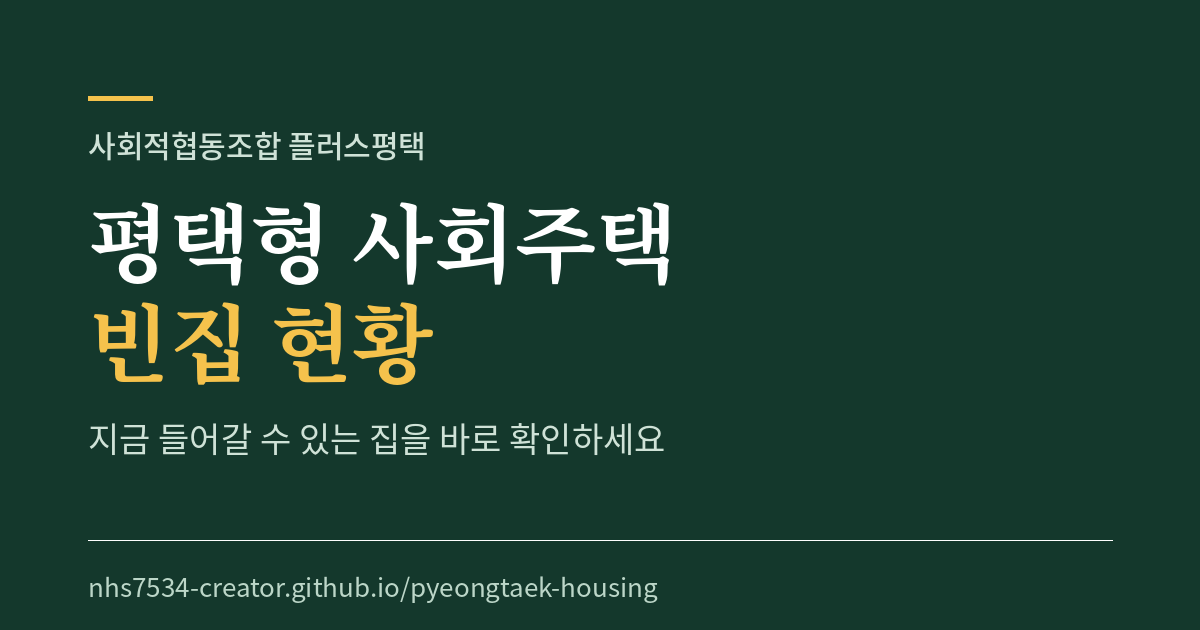
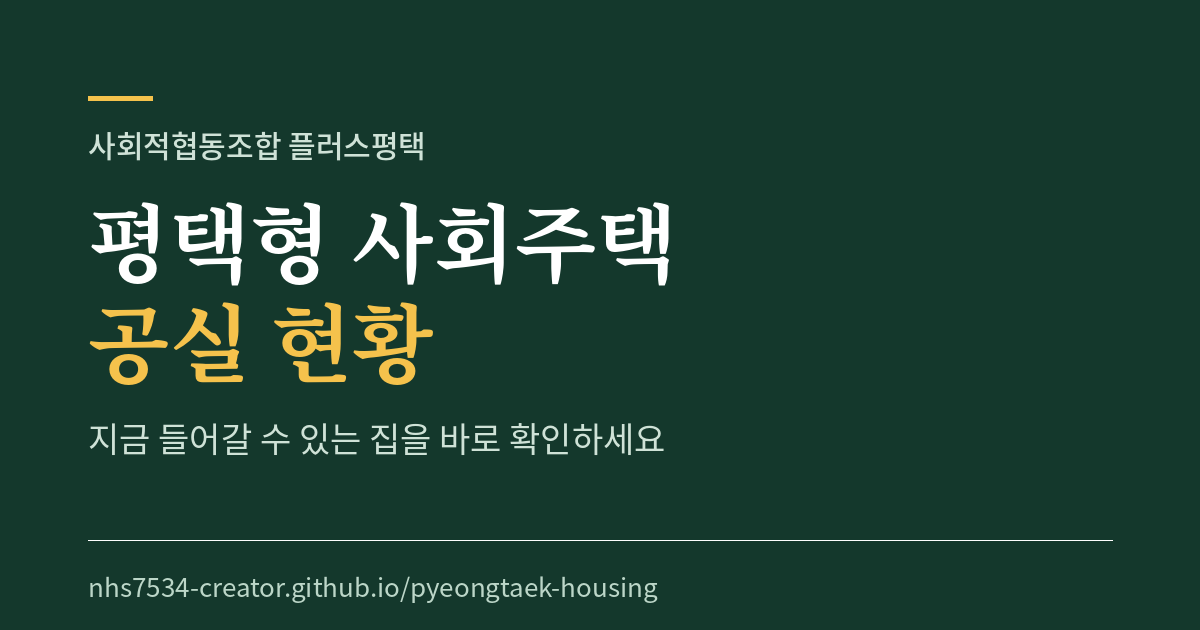
Add files via upload

Changed region(s): [[0.0617, 0.4825, 0.2158, 0.6333]]

diff --git a/index.html b/index.html
@@ -3,12 +3,12 @@
 <head>
 <meta charset="UTF-8">
 <meta name="viewport" content="width=device-width, initial-scale=1, viewport-fit=cover">
-<title>평택형 사회주택 빈집 현황 | 사회적협동조합 플러스평택</title>
+<title>평택형 사회주택 공실 현황 | 사회적협동조합 플러스평택</title>
 <meta name="description" content="평택형 사회주택 100호 중 지금 들어갈 수 있는 집을 실시간으로 확인하세요. 보증금과 월 임대료, 입주 가능일까지 한눈에.">
 
 <!-- 카카오톡·SNS 공유 -->
 <meta property="og:type" content="website">
-<meta property="og:title" content="평택형 사회주택 빈집 현황">
+<meta property="og:title" content="평택형 사회주택 공실 현황">
 <meta property="og:description" content="지금 들어갈 수 있는 집을 바로 확인하세요.">
 <meta property="og:site_name" content="사회적협동조합 플러스평택">
 <meta property="og:url" content="https://nhs7534-creator.github.io/pyeongtaek-housing/">
@@ -73,6 +73,7 @@
     border-radius:999px;
     padding:7px 14px 7px 12px;
     font-size:14px;color:#E7F0EA;
+    white-space:nowrap;
   }
   .pulse{
     width:8px;height:8px;border-radius:50%;background:#8FE3B6;
@@ -88,7 +89,7 @@
     font-size:14px;font-family:inherit;cursor:pointer;padding:8px;
     text-decoration:underline;text-underline-offset:3px;
   }
-  .stamp-row{display:flex;align-items:center;}
+  .stamp-row{display:flex;align-items:center;flex-wrap:wrap;row-gap:8px;}
 
   /* ── 현황 요약 ───────────────────── */
   .board{
@@ -278,7 +279,7 @@
 
   <header>
     <p class="eyebrow">사회적협동조합 플러스평택</p>
-    <h1>평택형 사회주택<br>빈집 현황</h1>
+    <h1>평택형 사회주택<br>공실 현황</h1>
     <div class="stamp-row">
       <span class="stamp"><span class="pulse"></span><span id="stampText">확인하는 중…</span></span>
       <button class="refresh-btn" id="refreshBtn" type="button">새로 고침</button>
@@ -429,7 +430,8 @@ function timeText(iso){
   const h = d.getHours();
   const ampm = h < 12 ? '오전' : '오후';
   const hh = h % 12 === 0 ? 12 : h % 12;
-  return ampm + ' ' + hh + '시 ' + String(d.getMinutes()).padStart(2,'0') + '분 기준';
+  return d.getFullYear() + '년 ' + (d.getMonth()+1) + '월 ' + d.getDate() + '일 ' +
+         ampm + ' ' + hh + '시 기준';
 }
 
 /* ── 불러오기 ── */
